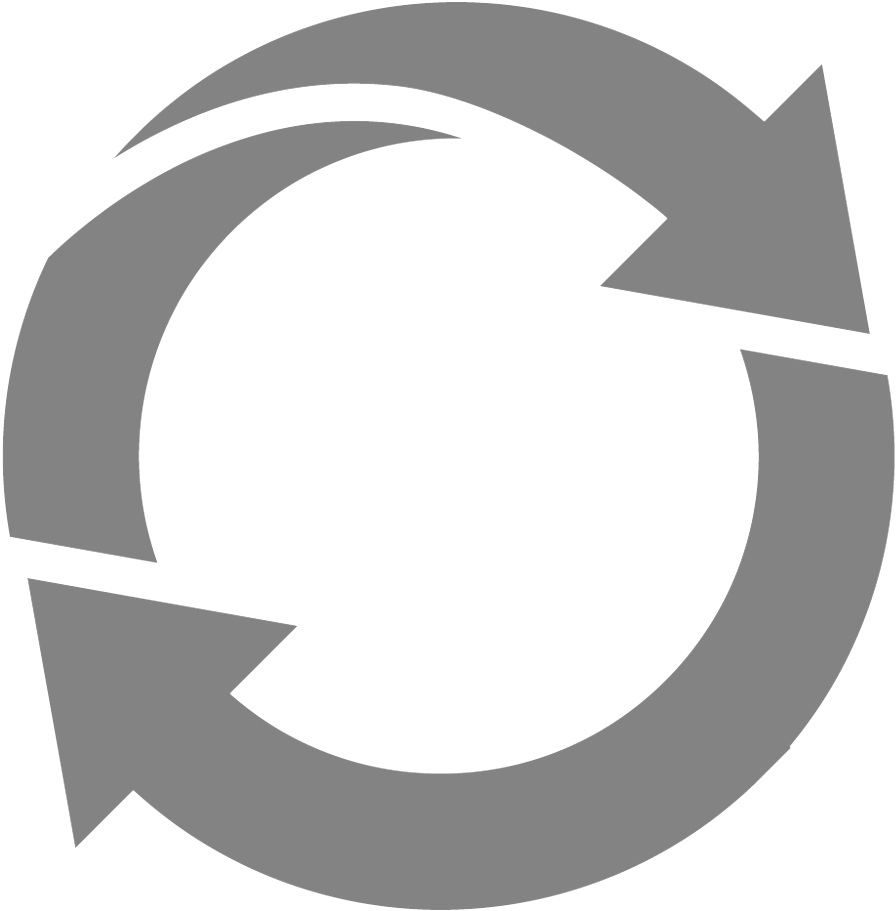
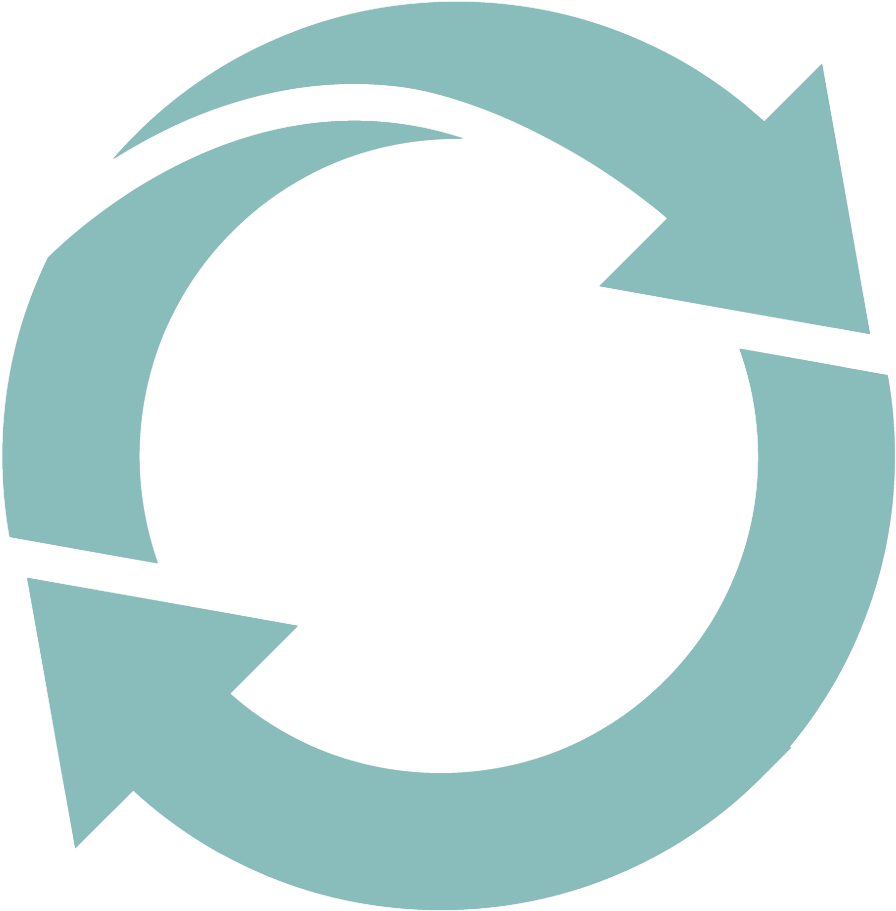
feat: change some style and add notificatation & fix: fix learning process

diff --git a/lingo-app/src/components/pages/LearnWords/LearnWordsPage.jsx b/lingo-app/src/components/pages/LearnWords/LearnWordsPage.jsx
@@ -9,6 +9,8 @@ import { changeLearningStatusAction } from '../../../store/learningManagerReduce
 import { changeCurrentWordAction } from '../../../store/studySessionReducer';
 import { changeLoadingStatusAction } from '../../../store/loadingManagerReducer';
 import LiquidButton from '../../../basicComponents/LiquidButton';
+import { sendNotificationAction } from '../../../store/notificationManagerReducer';
+import notificationManager from '../../../entities/notificationManager';
 
 const LearnWordsPage = () => {
     const dispatch = useDispatch();
@@ -21,6 +23,7 @@ const LearnWordsPage = () => {
         dispatch(changeLoadingStatusAction(false));
         if (!studySession.isInProcess) {
             dispatch(changeLearningStatusAction(false));
+            dispatch(sendNotificationAction(notificationManager.getNotification()));
         } else {
             dispatch(changeCurrentWordAction(studySession.currentWord));
         }

diff --git a/lingo-app/src/entities/studySession.js b/lingo-app/src/entities/studySession.js
@@ -1,3 +1,5 @@
+import { notifications } from "../helpers/constants";
+import notificationManager from "./notificationManager";
 import wordsService from "./wordsService";
 
 class StudySession {
@@ -19,7 +21,7 @@ class StudySession {
             if (word.lastStudied === 0) {
                 this.newWords.push(word);
             } else if (word.nextReview <= new Date()) {
-                this.repeat_words.push(word);
+                this.repeatWords.push(word);
             }
         });
         this.newWords.sort((a, b) => a.nextReview - b.nextReview);
@@ -50,6 +52,7 @@ class StudySession {
         } else {
             this.currentWord = null;
             this.isInProcess = false;
+            notificationManager.setNotification(notifications.studySessionCompleted);
         }
     }
 }

diff --git a/lingo-app/src/helpers/constants.js b/lingo-app/src/helpers/constants.js
@@ -83,6 +83,10 @@ const notifications = {
         type: "error",
         message: "No words to study or repeat today. Feel free to add new words to your collection and expand your vocabulary!",
     },
+    studySessionCompleted: {
+        type: "success",
+        message: "Study session complete! Keep up the good work!",
+    }
 }
 
 export {

diff --git a/lingo-app/src/components/Loader/Loader.jsx b/lingo-app/src/components/Loader/Loader.jsx
@@ -1,6 +1,6 @@
 import React from "react";
 
-import infinityGif from '../../assets/images/infinity.gif';
+import infinityGif from '../../assets/images/infinity.svg';
 
 const Loader = () => {
     return (
